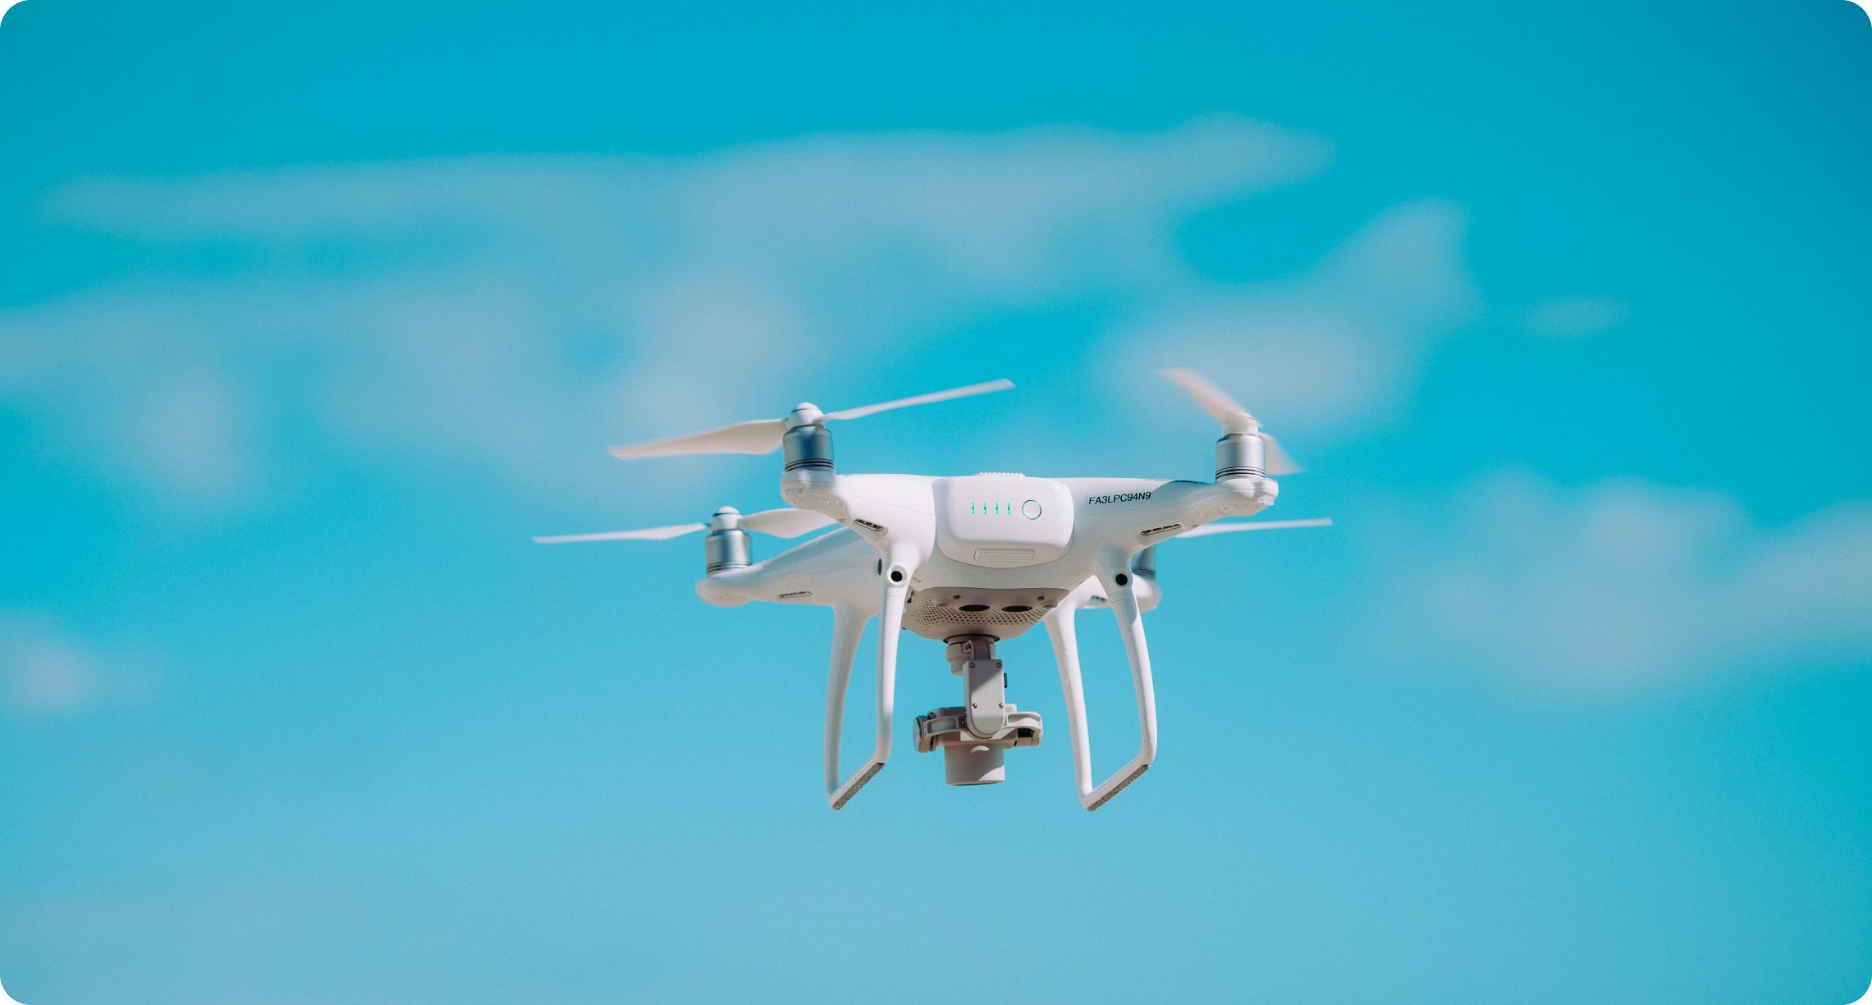
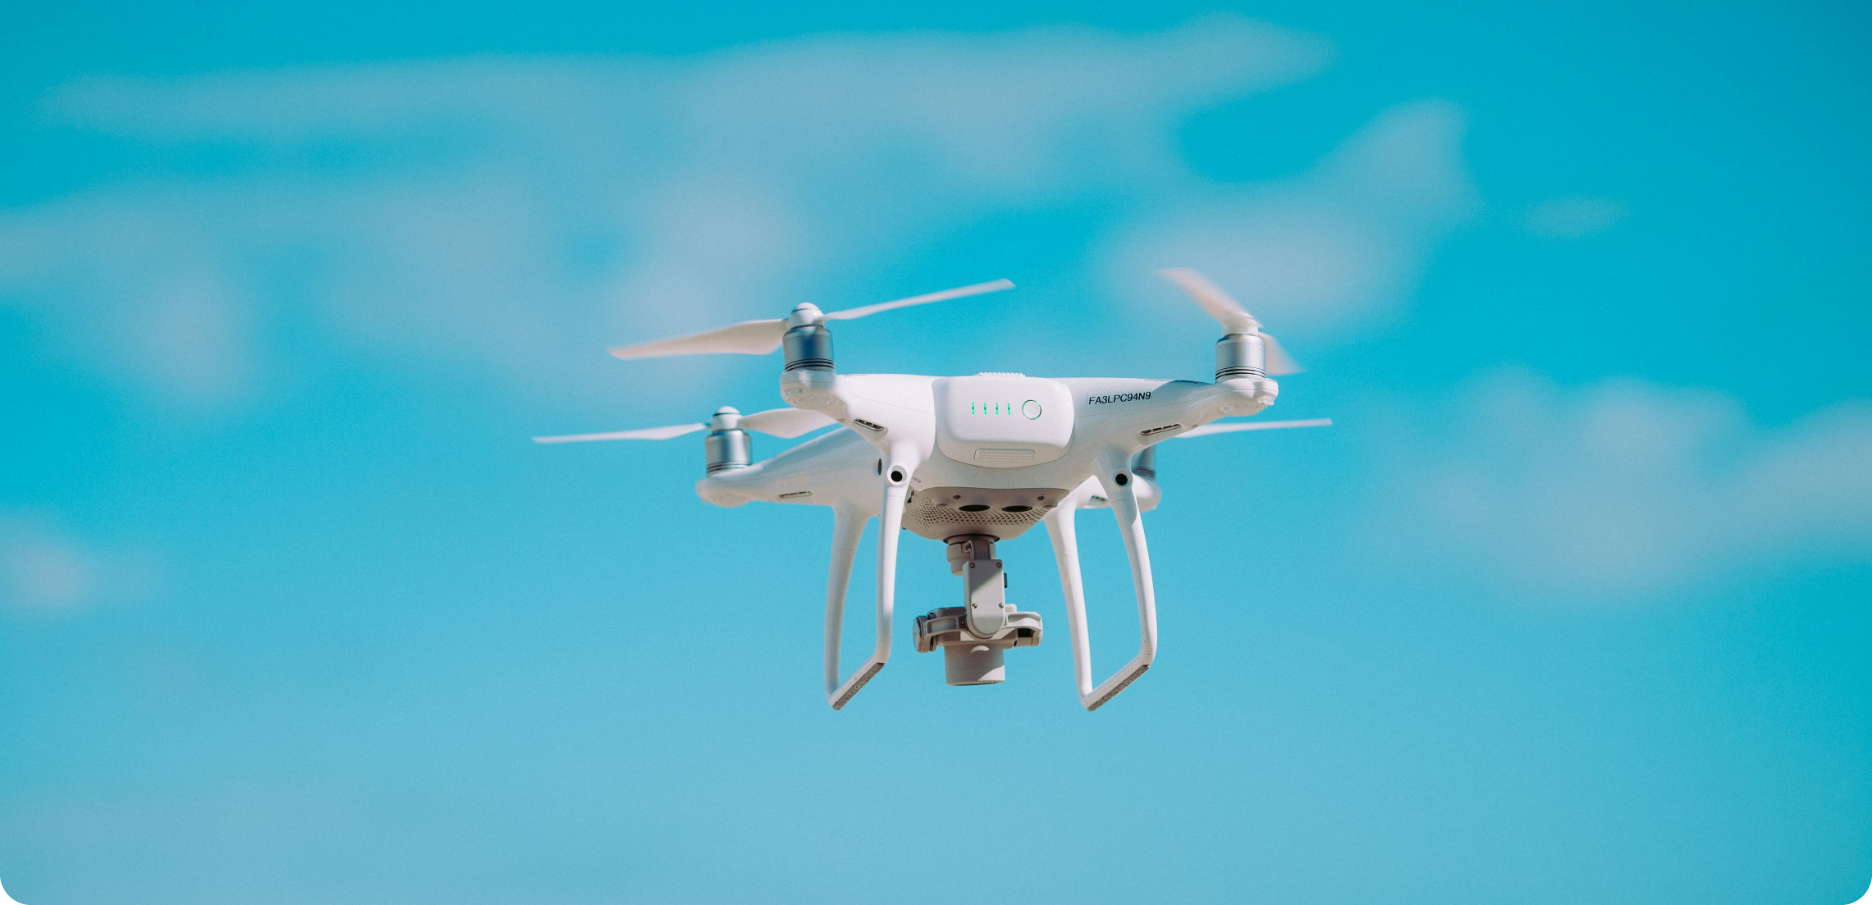
Mobile scale up, PC scale down, image gallery, telephone click

diff --git a/style.css b/style.css
@@ -16,6 +16,8 @@
 #landing-container {
     width: 100%;
     position: relative;
+    border-radius: 31px;
+    overflow: hidden;
 }
 #landing-background {
     width: 100%;
@@ -38,7 +40,7 @@ nav {
     width: 247px;
     height: 43px;
 }
-nav h5 img, #contactform-logo span img {
+nav h5 img, #contactform-logo a img {
     margin-bottom: -3px;
     padding: 0 0 0 0;
 }
@@ -46,7 +48,7 @@ nav h5 {
     padding: 0 8px 0 0;
     margin: 0;
 }
-nav h5 a, #contactform-logo span {
+nav h5 a, #contactform-logo a {
     padding: 0 24px 0 0;
     line-height: 88px;
     font-family: 'Adobe Clean', 'Times New Roman';
@@ -54,6 +56,9 @@ nav h5 a, #contactform-logo span {
     color: white;
     text-decoration: none;
     font-weight: normal;
+}
+#contactform-logo a:hover {
+    text-decoration: underline;
 }
 nav h5 a:hover {
     text-decoration: underline;
@@ -332,7 +337,8 @@ button:hover {
         height: 734px;
         width: auto;
         top: 0;
-        left: calc(50% - 685px);
+        left: 50%;
+        transform: translateX(-50%);
     }
     #landing-prices-container h1 {
         font-size: 65px;
@@ -391,6 +397,13 @@ button:hover {
     #middle-section p {
         font-size: 23px;
     }
+    #set-language {
+        top: 131px;
+        right: 20px;
+    }
+    #set-language img {
+        width: 80%;
+    }
 }
 
 
@@ -399,7 +412,7 @@ button:hover {
         width: 212px;
         height: 36px;
     }
-    nav h5 a, #contactform-logo span {
+    nav h5 a {
         /* padding: 0 24px 0 0; */
         line-height: 78px;
         font-family: 'Adobe Clean', 'Times New Roman';
@@ -408,7 +421,10 @@ button:hover {
         text-decoration: none;
         font-weight: normal;
     }
-    nav h5 img, #contactform-logo span img {
+    #contactform-logo a {
+        padding: 0 10px 0 0;
+    }
+    nav h5 img, #contactform-logo a img {
         margin-bottom: -3px;
         padding: 0 0 0 0;
         width: 10%;
@@ -444,13 +460,13 @@ button:hover {
     }
     #landing-container {
         border-radius: 31px;
-        min-height: 600px;
+        /* min-height: 600px; */
         overflow: hidden;
     }
     #set-language {
         position: absolute;
-        top: 129px;
-        right: 37px;
+        top: 104px;
+        right: 14px;
     }
     .carousel-track {
         height: 494px;
@@ -458,7 +474,7 @@ button:hover {
 }
 
 @media (max-width: 548px) {
-    nav h5 a, #contactform-logo span {
+    nav h5 a {
         font-size: 16px;
         line-height: 65px;
     }

diff --git a/carousel-script.js b/carousel-script.js
@@ -1,15 +1,38 @@
+
 // Array of image URLs - replace these with your actual image URLs
 const images = [
-  'https://picsum.photos/300/600?random=1',
-  'https://picsum.photos/500/300?random=2',
-  'https://picsum.photos/300/400?random=3',
-  'https://picsum.photos/600/300?random=4',
-  'https://picsum.photos/300/700?random=5',
-  'https://picsum.photos/300/300?random=6',
+  // 'https://picsum.photos/300/600?random=1',
+  // 'https://picsum.photos/500/300?random=2',
+  // 'https://picsum.photos/300/400?random=3',
+  // 'https://picsum.photos/600/300?random=4',
+  // 'https://picsum.photos/300/700?random=5',
+  // 'https://picsum.photos/300/300?random=6',
+  'img/1.png',
+  'img/2.png',
+  'img/3.png',
+  'img/4.png',
+  'img/5.png',
+  'img/6.png',
+  'img/7.jpg',
+  'img/8.jpg',
 ];
+const isMobile = window.matchMedia("(max-width: 768px)").matches;
+// Check if the user is on a mobile device
+if (window.matchMedia("(max-width: 768px)").matches) {
+  // Select the image element
+  const imgElement = document.querySelector("#landing-background"); // Replace #my-image with your image's selector
+  
+  // Check if the image exists and update its src
+  if (imgElement) {
+    imgElement.src = "img/landing-drone-mobile.png"; // Replace with the mobile-specific image URL
+  }
+}
 
+// Adjust carousel speed
+const carouselSpeed = isMobile ? 100 : 200; // Slower speed on mobile
 class Carousel {
-  constructor(images, speed = 200) {
+
+  constructor(images, speed = carouselSpeed) {
     this.images = images;
     this.speed = speed;
     this.track = document.querySelector('.carousel-track');

diff --git a/index.html b/index.html
@@ -3,6 +3,7 @@
 <head>
     <meta charset="UTF-8">
     <meta name="viewport" content="width=device-width, initial-scale=1.0">
+    <meta name="format-detection" content="telephone=no">
 
     <meta name="description" content="Drone Services in Kalamata and Mani. Aerial Photography and Videography. Call a drone operator and have a premium shoot of your property, your event, your wedding at an affordable price. Kalamata Drone specializes in premium aerial photography and videography around the area of Kalamata and Mani.">
     <meta name="keywords" content="Kalamata, Mani, Mesini, Pilos, Drone, photo, video, videos, photos, photography, videography" >
@@ -113,8 +114,8 @@
             <div id="contactform-logo">
                 <img src="./img/Drone_Logo.png"  alt="kalamata drone"/>
                 <div>
-                    <span><img src="./img/phone.png" alt="phone"/> </span>
-                    <span>+30 694 781 4932</span>
+                    <a href="tel:+30 694 781 4932"><img src="./img/phone.png" alt="phone"/> </a>
+                    <a href="tel:+30 694 781 4932">+30 694 781 4932</a>
                 </div>
             </div>
             <div class="container">
